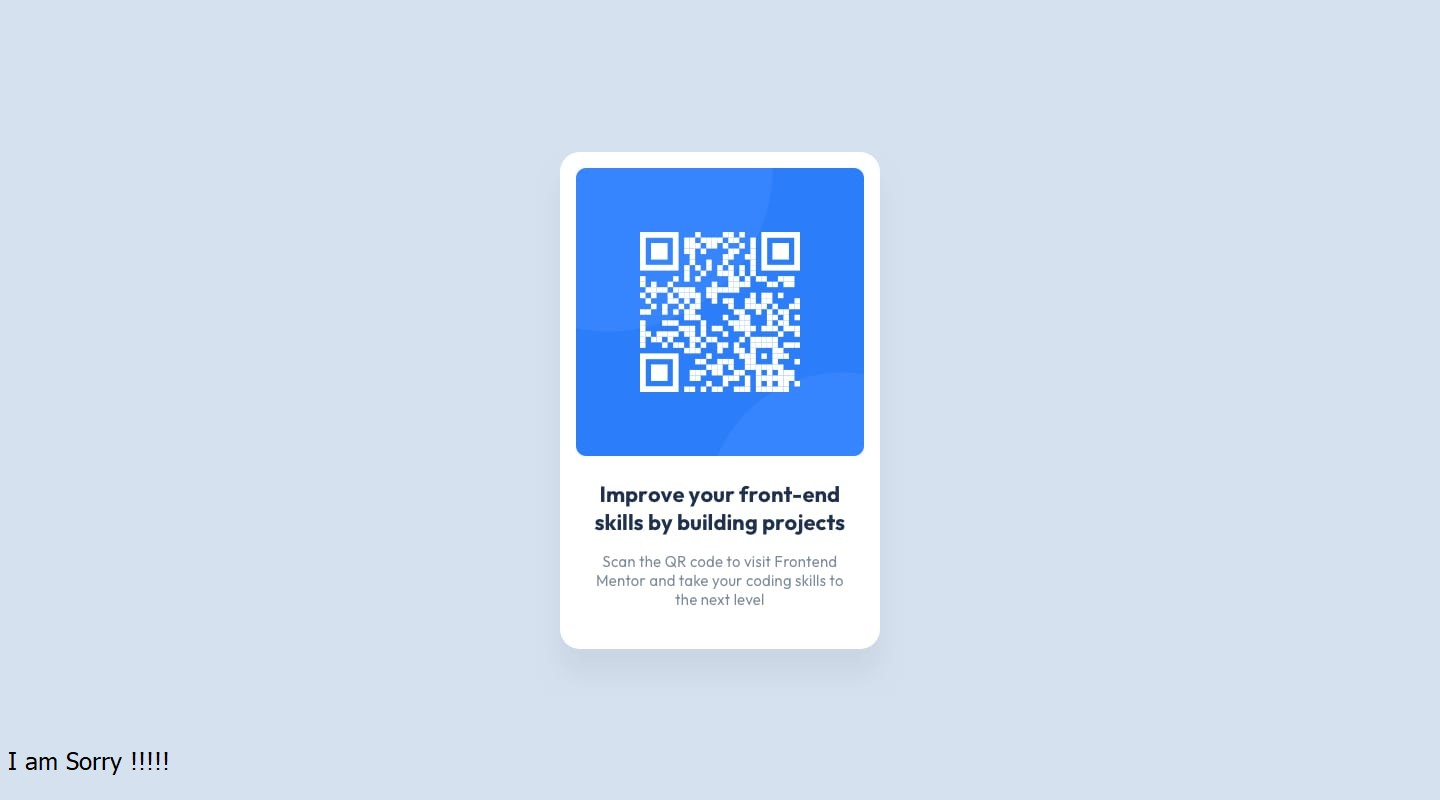
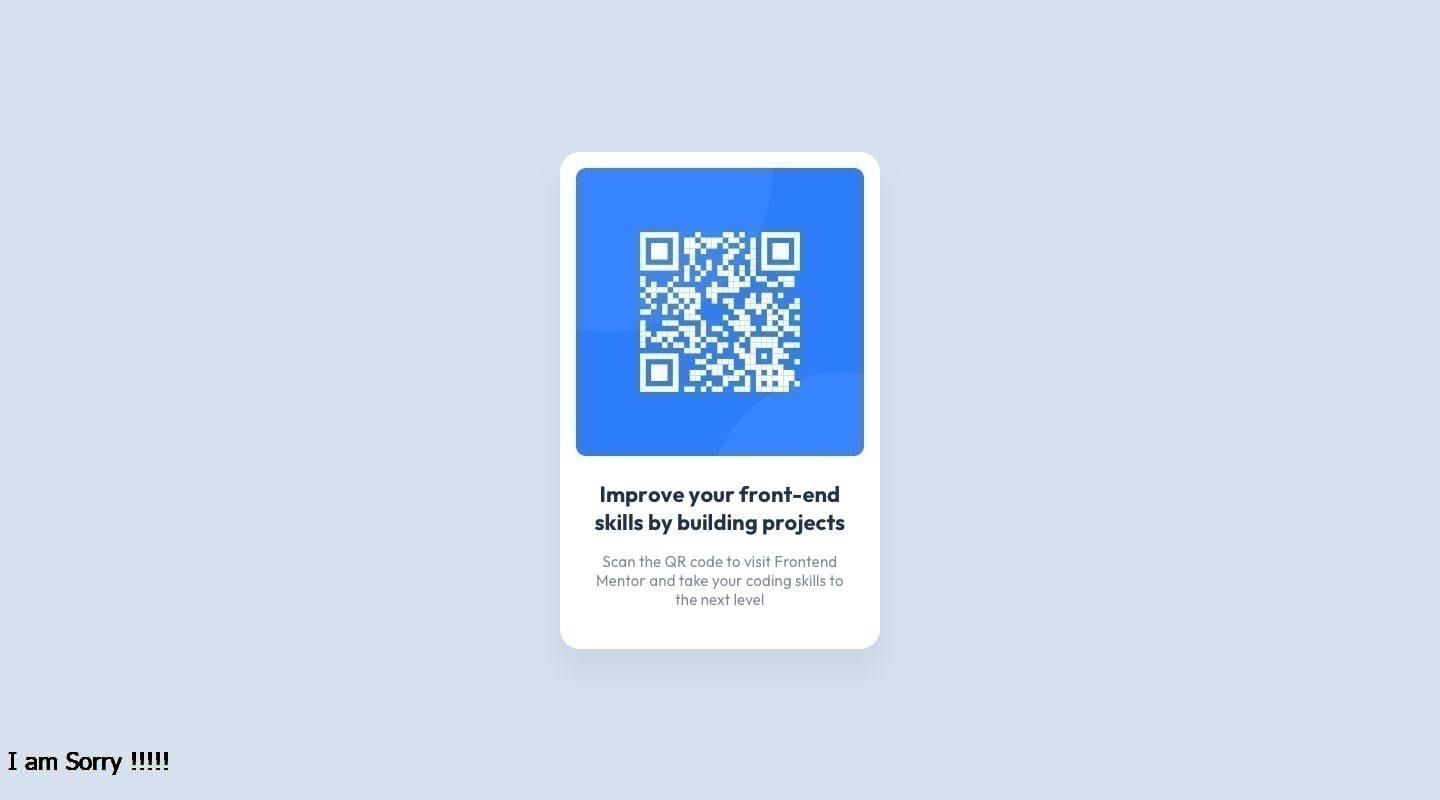
used aria

diff --git a/index.html b/index.html
@@ -10,13 +10,14 @@
   <title>Frontend Mentor | QR code component</title>
 </head>
 <body>
+  <main>
   <div class="container center">
-    <div class="qr_image">
-    </div>
+    <div class="qr_image"></div>
     <div class="text">
       <strong id="bold">Improve your front-end skills by building projects</strong>
       <p>Scan the QR code to visit Frontend Mentor and take you coding skills to the next level</p>
     </div>
   </div>
+  </main>
 </body>
 </html>

diff --git a/style.css b/style.css
@@ -29,12 +29,11 @@ body{
 {
     width: 95%;
     height: 60%;
-    background-color: red;
     margin: auto;
     border-radius: 10px;
     margin-bottom: 15px;
     background-image: url('./images/image-qr-code.png');
-    background-size: contain;
+    background-size: cover;
 }
 .text
 {
